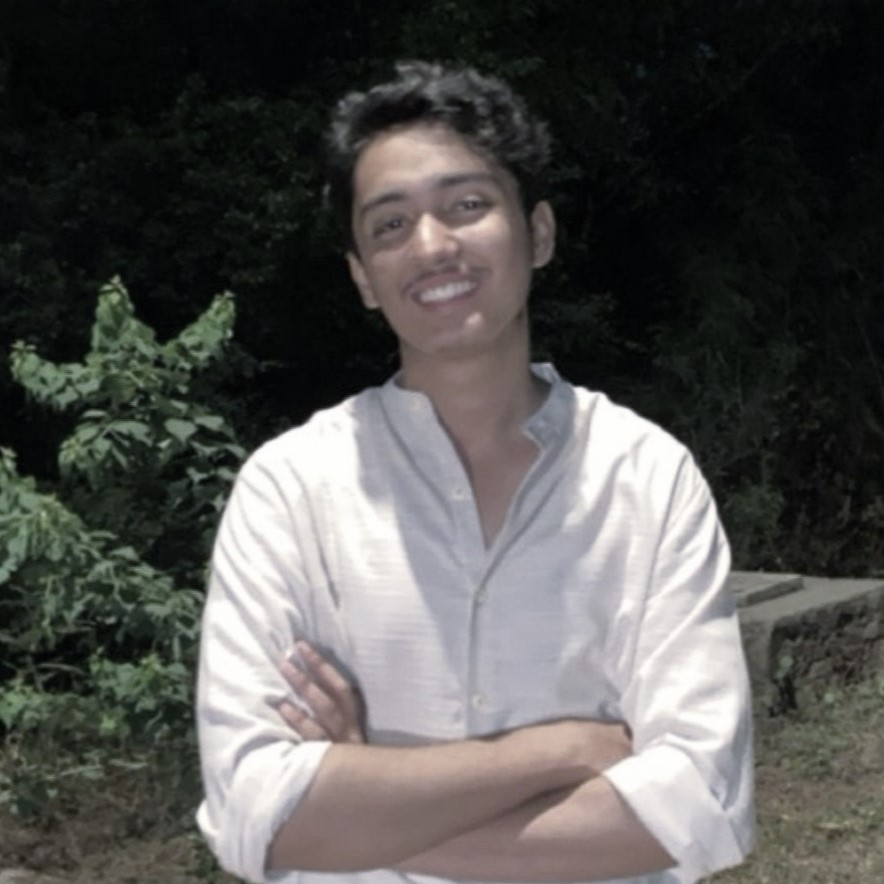
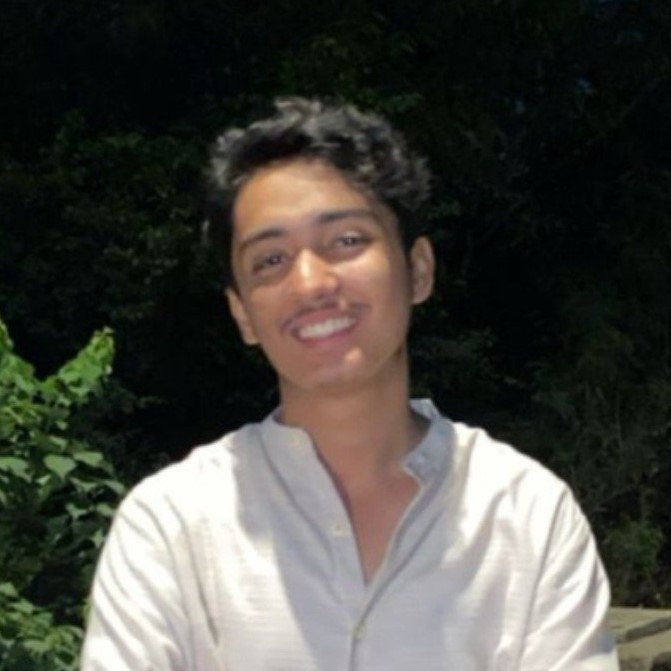
complete my-stacks section

diff --git a/constants/index.js b/constants/index.js
@@ -52,36 +52,34 @@ export const experiences = [
 
 export const stacks = {
   frontend: [
-    { logo:"", name: "JavaScript", description: "Core Web Language" },
-    { logo:"", name: "TypeScript", description: "Typed JavaScript" },
-    { logo:"", name: "React.js", description: "UI Library" },
-    { logo:"", name: "Next.js", description: "React Framework" },
-    // { logo:"", name: "Tailwind CSS", description: "Utility-First CSS" },
-    // { logo:"", name: "Material UI", description: "UI Component Library" },
+    { logo:"/javascript.svg", name: "JavaScript", description: "Core Web Language" },
+    { logo:"/typescript.svg", name: "TypeScript", description: "Typed JavaScript" },
+    { logo:"/react.svg", name: "React.js", description: "UI Library" },
+    { logo:"/nextjs1.svg", name: "Next.js", description: "React Framework" },
+
     
   ],
 
   backend: [
-    { logo:"", name: "Node.js", description: "Backend Runtime" },
-    { logo:"", name: "Express.js", description: "Web Framework" },
-    { logo:"", name: "PostgreSQL", description: "Relational Database" },
-    { logo:"", name: "MongoDB", description: "NoSQL Database" },
-    // { logo:"", name: "Supabase", description: "Backend Platform" },
-    // { logo:"", name: "REST APIs", description: "Client–Server APIs" }
+    { logo:"/nodejs.svg", name: "Node.js", description: "Backend Runtime" },
+    { logo:"/express.png", name: "Express.js", description: "Web Framework" },
+    { logo:"/sql.svg", name: "PostgreSQL", description: "Relational Database" },
+    { logo:"/mongo.svg", name: "MongoDB", description: "NoSQL Database" },
+
   ],
 
   tools: [
-    { logo:"", name: "Docker Compose", description: "Multi-Container Setup" },
-    { logo:"", name: "GitHub Actions", description: "CI/CD Automation" },
-    { logo:"", name: "Docker Hub", description: "Image Registry" },
-    { logo:"", name: "Kubernetes", description: "Container Orchestration" }
+    { logo:"/docker2.svg", name: "Docker Compose", description: "Multi-Container Setup" },
+    { logo:"/github3.svg", name: "GitHub Actions", description: "CI/CD Automation" },
+    { logo:"/container.svg", name: "Docker Hub", description: "Image Registry" },
+    { logo:"/kubernetes1.svg", name: "Kubernetes", description: "Container Orchestration" }
 
   ],
 
   ai: [
-    { logo:"", name: "OpenAI API", description: "AI Integration" },
-    { logo:"", name: "LangChain", description: "LLM Framework" },
-    { logo:"", name: "Hugging Face", description: "AI Models" },
-    { logo: "", name: "Cursor", description: "AI Code Editor" }
+    { logo:"/ai.svg", name: "OpenAI API", description: "AI Integration" },
+    { logo:"/chain2.svg", name: "LangChain", description: "LLM Framework" },
+    { logo:"/faceai.svg", name: "Hugging Face", description: "AI Models" },
+    { logo: "/cursor2.svg", name: "Cursor", description: "AI Code Editor" }
   ]
 };

diff --git a/components/shared/Topbar.tsx b/components/shared/Topbar.tsx
@@ -1,8 +1,10 @@
   "use client";
 
-  import { Dot, Mail, User, Zap } from 'lucide-react'
+import { Dot, Mail, User, Zap } from 'lucide-react'
 import Link from 'next/link';
-  import { usePathname } from 'next/navigation'
+import { usePathname } from 'next/navigation'
+import Ping from "@/components/shared/Ping"
+
 
   const Topbar = () => {
 
@@ -16,12 +18,13 @@ import Link from 'next/link';
 
     return (
 
-      <nav className='px-6 py-6 bg-[rgb(15,15,15)] border-b border-[#18181A]'>
+      <nav className='px-6 py-6 bg-[rgb(15,15,15)] border-b border-[#18181A] '>
         <div className='flex flex-row justify-between items-center '>
-            <div className='max-sm:hidden flex gap-2 items-center justify-center border border-grey40 px-4 py-2 rounded-full bg-[#18181A] '>
-              <Dot color="#00c278"/>
-              <p className='text-s text-grey85 font-medium'>Available For Work</p>
-            </div>
+           <div className='max-sm:hidden flex gap-2 items-center justify-center border border-grey40 px-4 py-2 rounded-full bg-[#18181A] '>
+            <Ping />
+            <p className='text-s text-grey85 font-medium'>Available For Work</p>
+          </div>
+
             <div className='flex gap-4 items-center justify-center max-lg:hidden'>
                 <p className='text-s font-medium text-grey60'>Local Time (IST)</p>
                 <div className='p-2 px-4 bg-[#18181A] border-grey40 rounded-md flex items-center justify-center'>

diff --git a/components/shared/LeftSidebar.tsx b/components/shared/LeftSidebar.tsx
@@ -18,13 +18,14 @@ const LeftSidebar = () => {
   
   return (
     <section className='flex flex-col items-end justify-between border-r pl-18 pr-12 py-12 bg-[#0F0F0F] max-lg:hidden border-[#18181A]'>
+      <div className='rounded-full border border-grey40'>
       <Image 
-      src={"/profile.svg"}
+      src={"/userImage2.jpg"}
       alt='profile_icon'
       width={64}
       height={64}
-      priority
-      className='object-contain  border rounded-full p-5'/>
+      className='w-full h-full object-contain rounded-full '/>
+      </div>
       <div className='flex flex-col items-center justify-center gap-4'>
         {
           sidebarList.map((item) =>{
@@ -33,7 +34,7 @@ const LeftSidebar = () => {
               <Link 
               key={item.label} href={`${item.route}`} 
               className={`flex rounded-md p-2 ${ isActive ? "bg-[#18181A]" : "bg-none"}
-              hover:bg-[#18181A] transition-all duration-200`}>
+              hover:bg-[#18181A] transition-all duration-300`}>
                 {item.icon}
                 
               </Link>

diff --git a/components/cards/StackCard.tsx b/components/cards/StackCard.tsx
@@ -14,13 +14,13 @@ const StackCard = ({
     <>
     <div className="group flex justify-between items-center px-3.5 
         py-4 bg-dark4 rounded-lg hover:bg-dark7 
-        border-dark8 transition-all duration-200 ">
+        border-dark8 transition-all duration-300 ">
      <div className='flex gap-2 items-center justify-center'>
-        <div className='w-11.5 h-11.5 p-2 rounded-md bg-[#18181A] flex items-center justify-center border-dark13 shadow-md'>
+    <div className='w-11.5 h-11.5 p-2 rounded-md bg-[#18181A] flex items-center justify-center border-dark13 shadow-md'>
              <img
               src={logo}
               alt={`stack logo`}
-              className='w-full h-full object-contain rounded-md'
+              className='w-full h-full object-contain'
             />
         </div>
             <div className='flex flex-col justify-center'>

diff --git a/components/shared/Stacks.tsx b/components/shared/Stacks.tsx
@@ -71,7 +71,7 @@ const Stacks = () => {
 
        <div className='mt-7.5'> 
         <div className='flex justify-center items-center px-32 bg-[#18181A] py-2 rounded-md '>
-          <p className='text-heading-xs font-semibold'>Back-end</p>
+          <p className='text-heading-xs font-semibold'>Artificial intelligence</p>
         </div>
         <div className='grid grid-cols-2 gap-2 mt-4 '>
           {

diff --git a/components/shared/Ping.tsx b/components/shared/Ping.tsx
@@ -1,0 +1,10 @@
+const Ping = () => {
+  return (
+    <span className="relative flex h-2 w-2">
+      <span className="animate-ping absolute inline-flex h-full w-full rounded-full bg-green-500 opacity-75" />
+      <span className="relative inline-flex h-2 w-2  rounded-full bg-green-600" />
+    </span>
+  )
+}
+
+export default Ping
